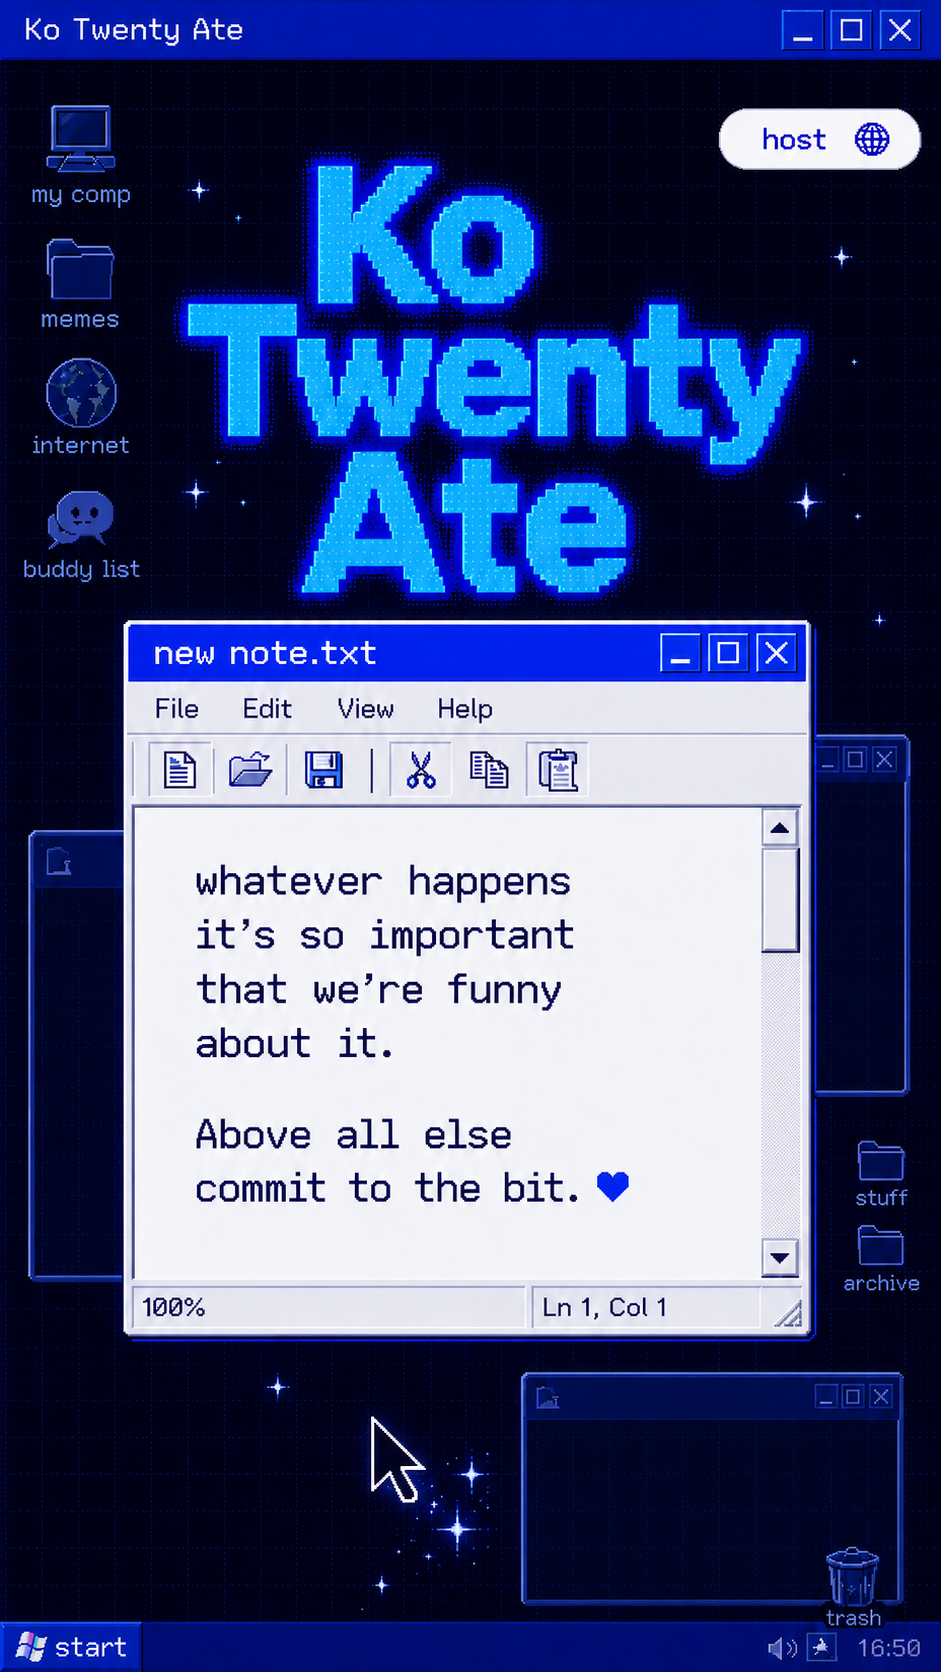
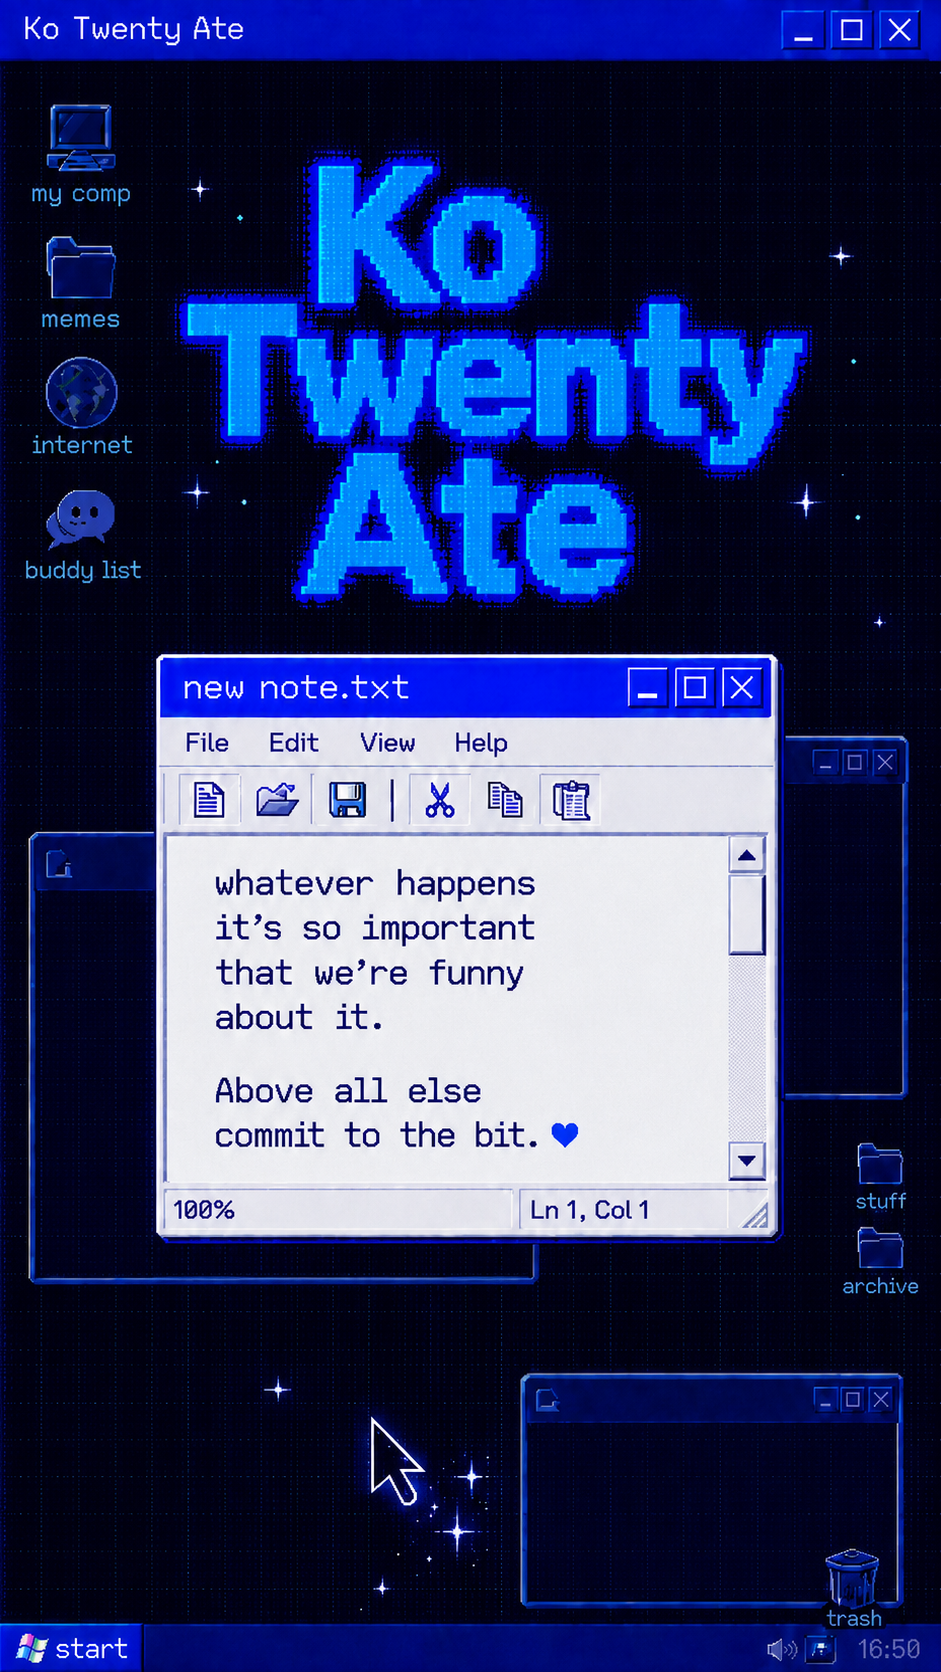
New retro bg + side-by-side responsive buttons

diff --git a/src/styles/kta-landing.css b/src/styles/kta-landing.css
@@ -19,6 +19,8 @@
   width: min(430px, 100vw);
   min-height: 100vh;
   min-height: 100dvh;
+  height: 100dvh;
+  overflow: hidden;
 }
 
 .kta-stage-bg {
@@ -37,15 +39,15 @@
 .kta-host-btn {
   position: absolute;
   z-index: 20;
-  top: calc(18px + env(safe-area-inset-top));
-  right: 14px;
-  padding: 8px 18px;
+  top: calc(clamp(10px, 2vh, 20px) + env(safe-area-inset-top));
+  right: clamp(10px, 3.5vw, 16px);
+  padding: clamp(6px, 1vh, 9px) clamp(12px, 4vw, 18px);
   border: 2px solid #000016;
   border-radius: 999px;
   background: #F3F3F8;
   color: #000016;
   font-family: "Share Tech Mono", "Courier New", monospace;
-  font-size: 0.95rem;
+  font-size: clamp(0.78rem, 3.2vw, 0.95rem);
   letter-spacing: 0.06em;
   cursor: pointer;
   box-shadow: inset 2px 2px 0 #fff, inset -2px -2px 0 #7a7a95, 3px 3px 0 rgba(0,0,0,0.6);
@@ -53,32 +55,47 @@
 .kta-host-btn::after { content: " 🌐"; }
 .kta-host-btn:active { transform: translate(2px,2px); }
 
-/* ── BOTTOM BUTTONS (sit between the note window and the taskbar) ── */
+/* ── BOTTOM BUTTONS: two boxes side by side, above the taskbar ──
+   Sizing is viewport-relative so they always fit in the gap between
+   the note window (~80%) and the taskbar (~99%) on any phone.      */
 .kta-bottom {
   position: absolute;
   z-index: 20;
   left: 0;
   right: 0;
   bottom: 0;
-  padding: 0 20px calc(42px + env(safe-area-inset-bottom));
-  display: flex;
-  flex-direction: column;
-  gap: 12px;
+  padding: 0 clamp(12px, 4vw, 22px) calc(clamp(18px, 4.2vh, 40px) + env(safe-area-inset-bottom));
+  display: grid;
+  grid-template-columns: 1fr 1fr;
+  gap: clamp(8px, 2.5vw, 14px);
 }
 
 .kta-btn-primary,
 .kta-btn-secondary {
-  width: 100%;
-  padding: 15px 20px;
+  height: clamp(76px, 14.5vh, 126px);
+  display: flex;
+  flex-direction: column;
+  align-items: center;
+  justify-content: center;
+  gap: clamp(4px, 1vh, 9px);
+  padding: 8px 6px;
   border: 2px solid #000016;
   border-radius: 0;
   font-family: "Share Tech Mono", "Courier New", monospace;
-  font-size: 1.05rem;
+  font-size: clamp(0.66rem, 3vw, 0.92rem);
+  line-height: 1.18;
+  text-align: center;
   text-transform: uppercase;
-  letter-spacing: 0.08em;
+  letter-spacing: 0.04em;
   cursor: pointer;
   transition: transform 0.05s;
 }
+
+.kta-btn-icon {
+  font-size: clamp(1.3rem, 6vw, 2.1rem);
+  line-height: 1;
+}
+.kta-btn-label { display: block; }
 
 .kta-btn-primary {
   background: #001FED;
@@ -123,6 +140,8 @@
 .kta-name-card {
   width: 100%;
   max-width: 360px;
+  max-height: calc(100dvh - 40px);
+  overflow-y: auto;
   background: #F3F3F8;
   border: 2px solid #000016;
   box-shadow: inset 2px 2px 0 #fff, inset -2px -2px 0 #7a7a95, 6px 6px 0 rgba(0,0,0,0.7);

diff --git a/src/pages/LandingPage.jsx b/src/pages/LandingPage.jsx
@@ -113,14 +113,16 @@ function LandingPage() {
               className="kta-btn-primary"
               onClick={() => openNameStep('mission')}
             >
-              Get My Mission
+              <span className="kta-btn-icon" aria-hidden="true">💾</span>
+              <span className="kta-btn-label">Get My<br />Mission</span>
             </button>
             <button
               type="button"
               className="kta-btn-secondary"
               onClick={() => openNameStep('give')}
             >
-              Give Komal a Mission
+              <span className="kta-btn-icon" aria-hidden="true">📁</span>
+              <span className="kta-btn-label">Give Komal<br />a Mission</span>
             </button>
           </div>
         )}